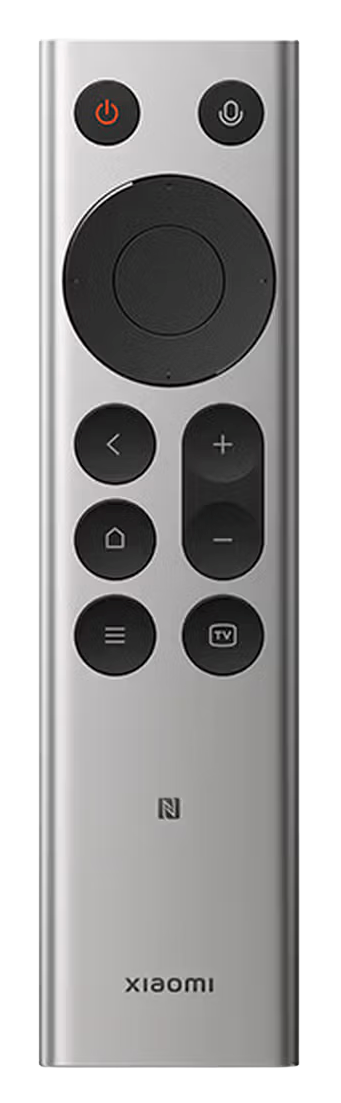
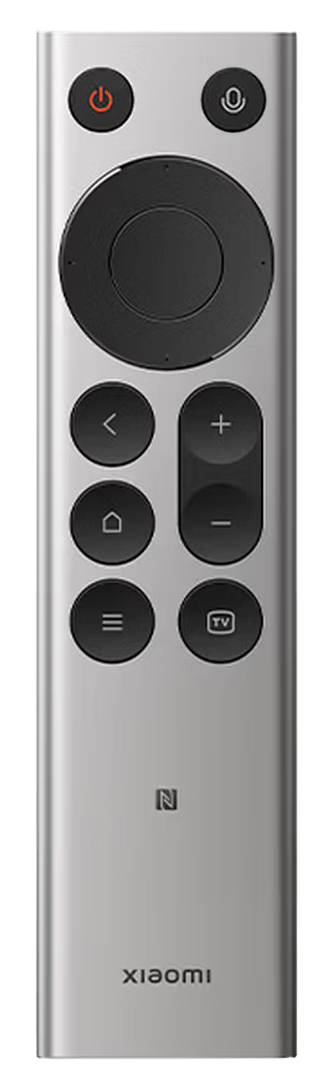
fix(ui): RC001 产品图按 RC003 规范化后同步热区，bodyScale 回到 1
RC001 的产品图已重新处理成与 RC003 相同的画布与机身尺寸：
画布 341x1103 -> 335x1081，机身 bbox (38,39)-(300,1068) -> (35,30)-(297,1059)，
机身像素尺寸仍是 263x1030（即裁剪/补边，不是缩放）。

因此热区只需整体平移 (-3, -9)，不需要重新标定：
- 工作台 RC001_HOTSPOTS 12 项按平移重算（百分比分母也改为 335x1081）
- 配对帮助 RC001 的 width/height 改为 335/1081，三个热区同步平移
- 配对帮助 RC001 的 bodyScale 从 1.0194 回到 1：机身占画布高度已与 RC003 一致
  （同为 95.28%），不再需要缩放补偿

至此三张产品图主体占画布高度一致（95.28% / 95.28% / 95.61%），
260px 盒高下机身显示高度 247.7 / 247.7 / 247.9 px，切标签无缩放跳变。

验证：源码图叠加 12 环全部贴合；真实界面注入 12 环确认；配对帮助三标签逐一切换
读取环心坐标，RC001 为 (33.30,49.06)/(33.30,57.94)/(65.47,57.94)，与标定一致。

diff --git a/apps/shengjian-desktop/src/components/ProfileWorkbench.vue b/apps/shengjian-desktop/src/components/ProfileWorkbench.vue
@@ -99,29 +99,26 @@ const RC003_HOTSPOTS: RemoteHotspot[] = [
 ];
 
 /**
- * RC001（小米蓝牙语音遥控器 2）：341 x 1103 产品图。
+ * RC001（小米蓝牙语音遥控器 2）：335 x 1081 产品图。
  *
- * 这张图机身浅银、按键纯黑，对比度高，所以直接用**暗块连通域**测每个按键的圆心与
- * 直径（比径向梯度稳）：电源 66px，主页/返回/菜单/音量/TV 均 82px；
- * D-pad 整盘 214px（r=107），径向剖面在 r=53 找到内盘（OK）边缘；
- * 音量是 82x178 的摇杆，+/− 取杆内亮字形质心（y=443.9 / 539.5）。
- * 交叉验证：back/home/menu 与 音量+/音量−/TV 三行 y 完全对齐。
- *
- * 布局：电源+麦克风双键在顶，左侧 back/home/menu 竖列，右侧音量摇杆 + TV。
+ * 该图已按 RC003 的画布与机身尺寸规范化（机身 bbox 同为 (35,30)-(297,1059)、
+ * 263x1030），所以热区是把原 341x1103 版本整体平移 (-3, -9) 得到的，无需重标。
+ * 布局：电源+麦克风双键在顶，D-pad 居中，左侧 back/home/menu 竖列，
+ * 右侧音量摇杆 + TV。
  */
 const RC001_HOTSPOTS: RemoteHotspot[] = [
-  { id: "power", x: 31.29, y: 10.21, w: 19.35, h: 5.98, shape: "circle" },
-  { id: "up", x: 49.62, y: 18.19, w: 15.25, h: 4.71, shape: "circle" },
-  { id: "down", x: 49.62, y: 32.69, w: 15.25, h: 4.71, shape: "circle" },
-  { id: "left", x: 26.16, y: 25.44, w: 15.25, h: 4.71, shape: "circle" },
-  { id: "right", x: 73.08, y: 25.44, w: 15.25, h: 4.71, shape: "circle" },
-  { id: "ok", x: 49.62, y: 25.44, w: 31.09, h: 9.61, shape: "circle" },
-  { id: "back", x: 33.67, y: 40.24, w: 24.05, h: 7.43, shape: "circle" },
-  { id: "home", x: 33.67, y: 48.9, w: 24.05, h: 7.43, shape: "circle" },
-  { id: "menu", x: 33.67, y: 57.56, w: 24.05, h: 7.43, shape: "circle" },
-  { id: "volume-up", x: 65.22, y: 40.24, w: 24.05, h: 7.43, shape: "circle" },
-  { id: "volume-down", x: 65.25, y: 48.91, w: 24.05, h: 7.43, shape: "circle" },
-  { id: "tv", x: 65.31, y: 57.56, w: 24.05, h: 7.43, shape: "circle" },
+  { id: "power", x: 30.95, y: 9.59, w: 19.7, h: 6.1, shape: "circle" },
+  { id: "up", x: 49.61, y: 17.73, w: 15.52, h: 4.81, shape: "circle" },
+  { id: "down", x: 49.61, y: 32.52, w: 15.52, h: 4.81, shape: "circle" },
+  { id: "left", x: 25.73, y: 25.13, w: 15.52, h: 4.81, shape: "circle" },
+  { id: "right", x: 73.49, y: 25.13, w: 15.52, h: 4.81, shape: "circle" },
+  { id: "ok", x: 49.61, y: 25.13, w: 31.65, h: 9.81, shape: "circle" },
+  { id: "back", x: 33.38, y: 40.23, w: 24.48, h: 7.59, shape: "circle" },
+  { id: "home", x: 33.38, y: 49.06, w: 24.48, h: 7.59, shape: "circle" },
+  { id: "menu", x: 33.38, y: 57.9, w: 24.48, h: 7.59, shape: "circle" },
+  { id: "volume-up", x: 65.49, y: 40.23, w: 24.48, h: 7.59, shape: "circle" },
+  { id: "volume-down", x: 65.52, y: 49.07, w: 24.48, h: 7.59, shape: "circle" },
+  { id: "tv", x: 65.58, y: 57.9, w: 24.48, h: 7.59, shape: "circle" },
 ];
 
 /**

diff --git a/apps/shengjian-desktop/src/components/DevicePairingHelp.vue b/apps/shengjian-desktop/src/components/DevicePairingHelp.vue
@@ -68,14 +68,14 @@ const MODELS: Record<PairingModel, ModelInfo> = {
     nameKey: "小米蓝牙语音遥控器 2",
     bluetoothName: "小米蓝牙语音遥控器 2",
     image: rc001Photo,
-    width: 341,
-    height: 1103,
-    bodyScale: 1.0194,
+    width: 335,
+    height: 1081,
+    bodyScale: 1,
     hasTvKey: true,
     hotspots: [
-      { label: "主页键", x: 0.336, y: 0.489, side: "left" },
-      { label: "菜单键", x: 0.336, y: 0.576, side: "left" },
-      { label: "TV", x: 0.652, y: 0.576, side: "right" },
+      { label: "主页键", x: 0.3331, y: 0.4906, side: "left" },
+      { label: "菜单键", x: 0.3331, y: 0.5794, side: "left" },
+      { label: "TV", x: 0.6547, y: 0.5794, side: "right" },
     ],
   },
   // ARN9 普通款：514 x 1640 实拍图；没有 TV 键，Home / 返回 / 菜单 是同一行的三颗独立键。
